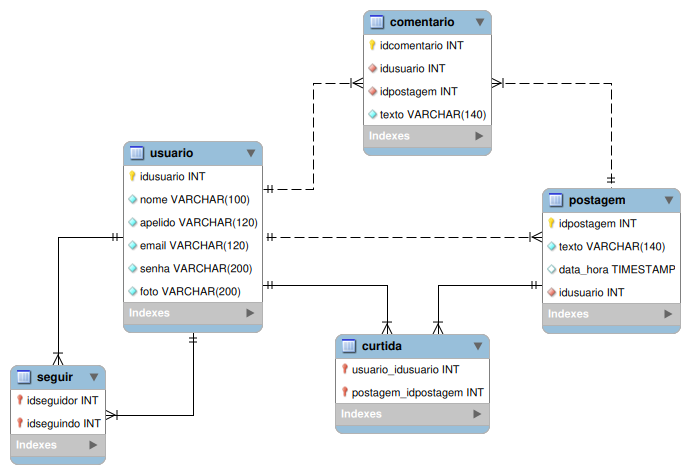
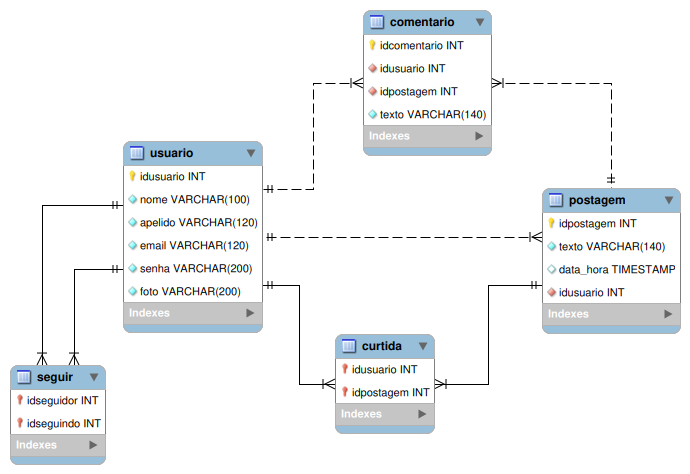
tanta coisa que nem lembro

diff --git a/codigo/usuario/lista_usuario.php b/codigo/usuario/lista_usuario.php
@@ -1,0 +1,62 @@
+<!DOCTYPE html>
+<html lang="en">
+<head>
+    <meta charset="UTF-8">
+    <meta name="viewport" content="width=device-width, initial-scale=1.0">
+    <title>Document</title>
+    <style>
+        table, tr, td {
+            border-style: solid;
+            padding: 20px;
+        }
+    </style>
+</head>
+<body>
+    <h2>Lista de usuários</h2>
+
+    <table>
+        <tr>
+            <td>id</td>
+            <td>nome</td>
+            <td>apelido</td>
+            <td>email</td>
+            <td>senha</td>
+            <td>foto</td>
+            <td>ação</td>
+            <td>ação</td>
+            <td>ação</td>
+        </tr>
+
+        <?php
+        require_once "../conexao.php";
+        
+        $sql = "SELECT * FROM usuario";
+        
+        $resultados = mysqli_query($conexao, $sql);
+        
+        //quebra a variável $resultados em linhas (vetores/array)
+        while ($linha = mysqli_fetch_array($resultados)) {
+            $id = $linha['idusuario'];
+            $nome = $linha['nome'];
+            $apelido = $linha['apelido'];
+            $email = $linha['email'];
+            $senha = $linha['senha'];
+            $foto = $linha['foto'];
+
+            echo "<tr>";
+                echo "<td>$id</td>";
+                echo "<td>$nome</td>";
+                echo "<td>$apelido</td>";
+                echo "<td>$email</td>";
+                echo "<td>$senha</td>";
+                echo "<td><img src='../$foto' width='100' height='100'></td>";
+                echo "<td><a href='excluir_usuario.php?id=$id'>excluir</a></td>";
+                echo "<td><a href='excluir_usuario.php?id=$id'><img src='../imagens/lixeira.png'></a></td>";
+                echo "<td><a href='cad_usuario.php?id=$id'>editar</a></td>";
+            echo "</tr>";
+        }
+            
+            ?>
+    </table>
+</body>
+</html>

diff --git a/codigo/postagem/listar_postagem.php b/codigo/postagem/listar_postagem.php
@@ -1,0 +1,41 @@
+<!DOCTYPE html>
+<html lang="en">
+<head>
+    <meta charset="UTF-8">
+    <meta name="viewport" content="width=device-width, initial-scale=1.0">
+    <title>Document</title>
+</head>
+<body>
+    <h2>Lista de postagens</h2>
+
+    <table border="1">
+        <tr>
+            <td>idpostagem</td>
+            <td>texto</td>
+            <td>data_hora</td>
+            <td>idusuario</td>
+        </tr>
+        <?php
+            require_once "conexao.php";
+
+            $sql = "SELECT * FROM postagem";
+
+            $resultados = mysqli_query($conexao, $sql);
+
+            while ($linha = mysqli_fetch_array($resultados)) {
+                $idpostagem = $linha['idpostagem'];
+                $texto = $linha['texto'];
+                $data_hora = $linha['data_hora'];
+                $idusuario = $linha['idusuario'];
+
+                echo "<tr>";
+                echo "<td>$idpostagem</td>";
+                echo "<td>$texto</td>";
+                echo "<td>$data_hora</td>";
+                echo "<td>$idusuario</td>";
+                echo "</tr>";
+            }
+        ?>
+    </table>
+</body>
+</html>

diff --git a/codigo/usuario/excluir_usuario.php b/codigo/usuario/excluir_usuario.php
@@ -1,0 +1,11 @@
+<?php
+require_once "../conexao.php";
+
+$id = $_GET['id'];
+
+$sql = "delete from usuario where idusuario = $id";
+
+mysqli_query($conexao, $sql);
+
+header("Location: lista_usuario.php");
+?>

diff --git a/conexao.php b/conexao.php
@@ -1,0 +1,8 @@
+<?php
+$servidor = 'db';
+$usuario = 'root';
+$password = '123';
+$banco = 'rede_social_db';
+
+$conexao = mysqli_connect($servidor, $usuario, $password, $banco);
+?>
